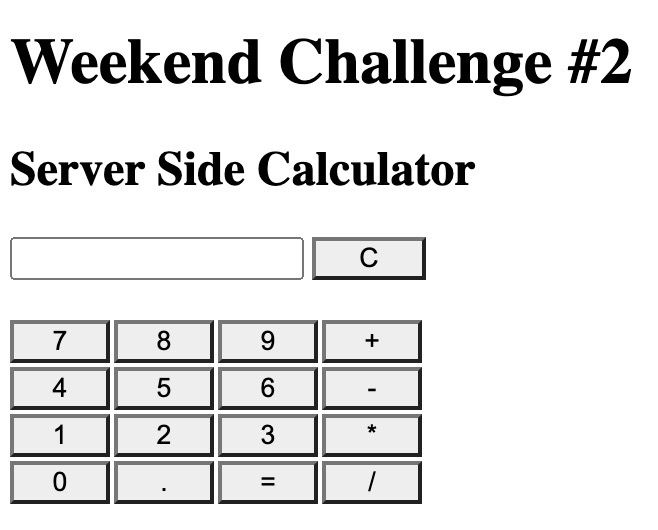
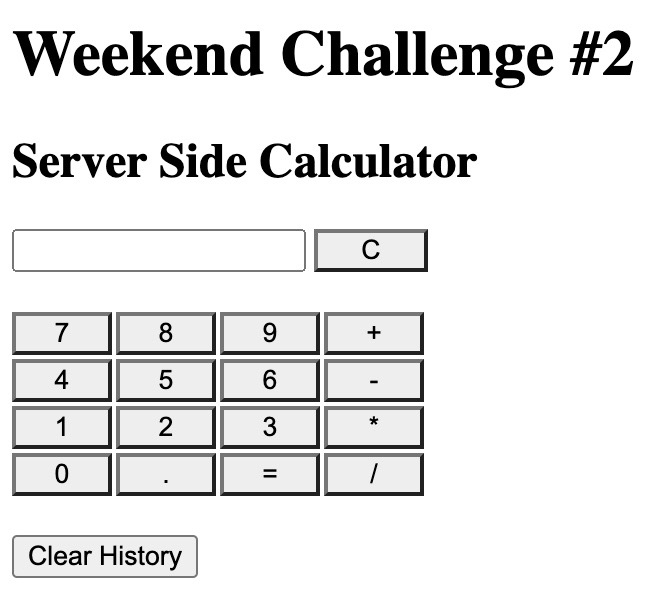
update the readme to reflect stretch goals

Changed region(s): [[0.0, 0.2113, 0.7295, 0.966], [0.0, 0.0302, 0.9726, 0.1811]]

diff --git a/README.md b/README.md
@@ -11,8 +11,8 @@
 
 _Duration: 2 Day Sprint_
 
-Server Side Calculator helps the user do simple math from anywhere in the world. Users can do addition, subtraction, multiplication and division. Simply use your keyboard or the provided user interface to enter 2 numbers (can be decimal, at the current state of the program it's not possible to start a number with . ie .45 would need to be 0.45) and 1 operator ONLY. So input format would be [number][operator][number], ie 5.6+7.99. The user will then have to click the [=] button to get the result. The result will be displayed below the numeric buttons, and a list of previous calculations will be appended as more calculations are performed. The most recent calculation equation will be appended to the bottom of the list.
-The input box can be cleared of its content by clicking the [C] button.
+Server Side Calculator helps the user do simple math from anywhere in the world. Users can do addition, subtraction, multiplication and division. Simply use the keyboard or the provided user interface to enter 2 numbers (can be decimal, at the current state of the program it's not possible to start a number with . ie .45 would need to be 0.45) and 1 operator ONLY. So input format would be [number][operator][number], ie 5.6+7.99. The user will then have to click the [=] button to get the result. The result will be displayed below the numeric buttons, and a list of previous calculations will be appended as more calculations are performed. The most recent calculation equation will be appended to the bottom of the list.
+The input box can be cleared of its content by clicking the [C] button. The list of previous calulations can be cleared by clicking [Clear History]. The user can also re calculate a previous calculation by clicking on one of the list items. That equation will be displayed in the input and the result of that calculation will also be displayed.
 
 
 ## Screen Shot
@@ -60,7 +60,10 @@ Link to software that is required to develop this website.
 2. Click the = button, to see the result.
 3. The most recent calculation will be appended to a list of previous calculations.
 4. User can click the [C] button at any time to clear the user interface inputs.
-5. Clear does not clear/empty the list of previous calculations.
+5. Clear does not clear/empty the list of previous 
+calculations.
+6. To clear the history, click [Clear History]
+7. User can also have a previous calculation re-calculated by cliking on it in the list of previoius calculations.
 
 
 
